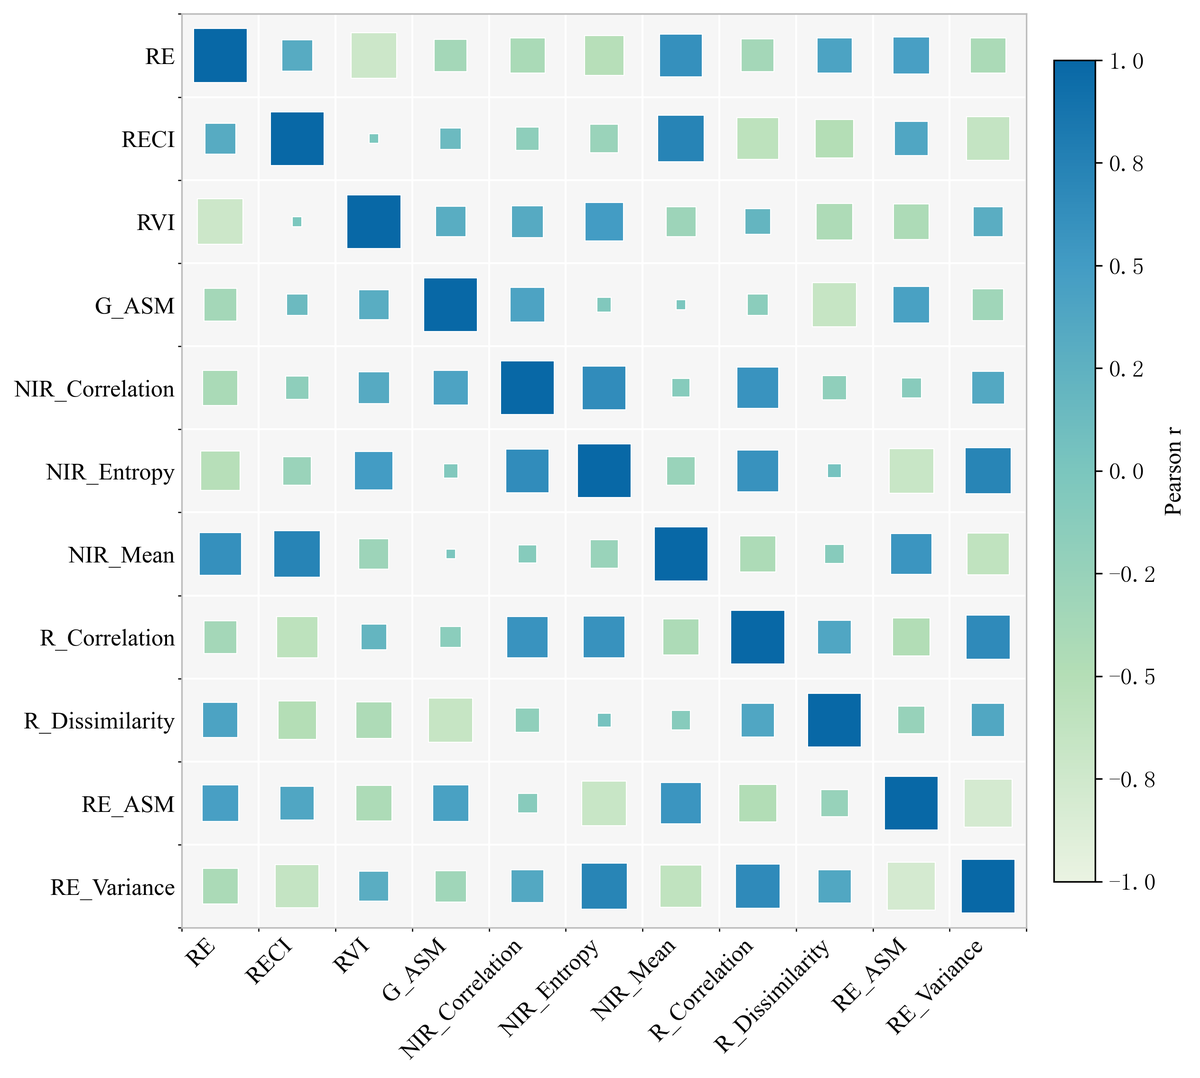
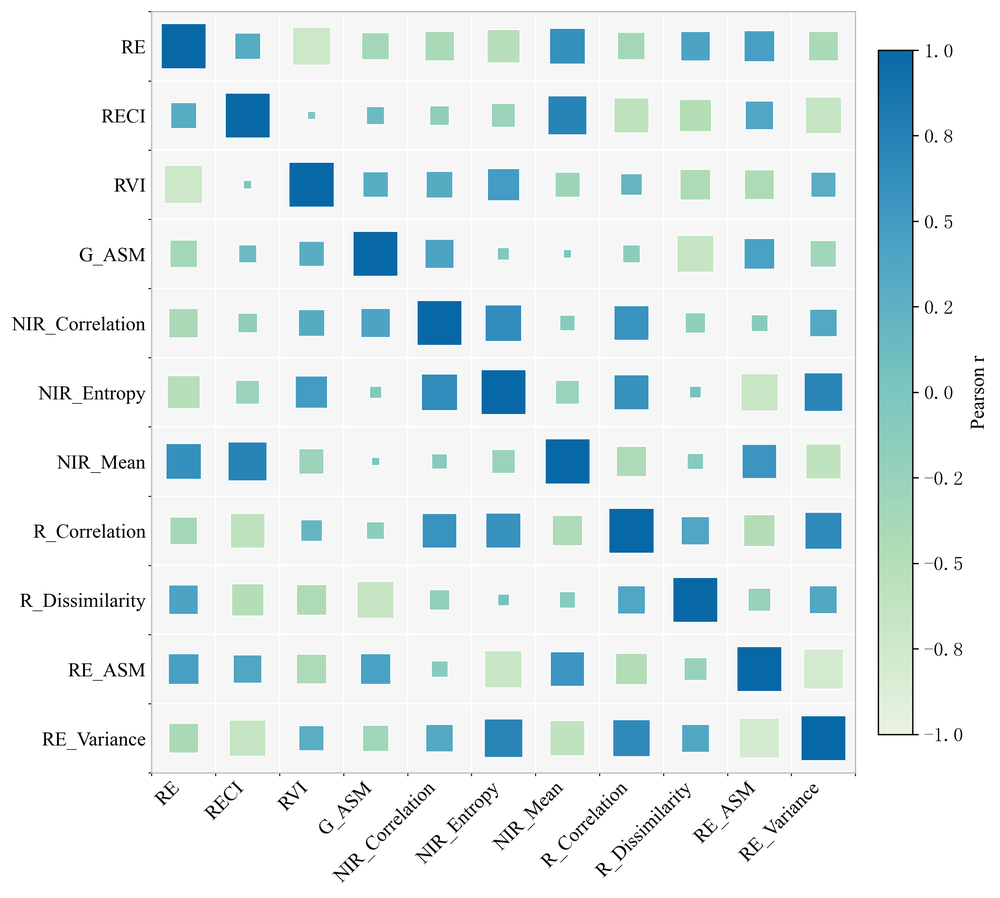
Improve README: badges, TOC, optimized preview images

diff --git a/README.md b/README.md
@@ -1,63 +1,101 @@
 <div align="center">
 
-# Correlation Plot
+<!-- PROJECT LOGO -->
+<br />
+<h1>Correlation Plot</h1>
 
-**Publication-quality correlation visualization for scientific research.**
+  <p align="center">
+    Publication-quality correlation visualization for scientific research
+    <br />
+    <a href="#demo">View Demo</a>
+    ·
+    <a href="#quick-start">Quick Start</a>
+    ·
+    <a href="#configuration">Configuration</a>
+  </p>
 
-One script → two figures → paper-ready.
-
+<!-- BADGES -->
+  <p align="center">
+    <img src="https://img.shields.io/badge/python-3.8+-blue?logo=python&logoColor=white" alt="Python 3.8+">
+    <img src="https://img.shields.io/badge/license-MIT-green" alt="License MIT">
+    <img src="https://img.shields.io/badge/dependencies-5-lightgrey" alt="Dependencies">
+  </p>
 </div>
+
+<!-- TABLE OF CONTENTS -->
+<details open>
+  <summary><b>Table of Contents</b></summary>
+  <ol>
+    <li><a href="#demo">Demo</a></li>
+    <li><a href="#quick-start">Quick Start</a></li>
+    <li><a href="#features">Features</a></li>
+    <li><a href="#project-structure">Project Structure</a></li>
+    <li><a href="#configuration">Configuration</a></li>
+    <li><a href="#dependencies">Dependencies</a></li>
+    <li><a href="#license">License</a></li>
+  </ol>
+</details>
 
 ---
 
 ## Demo
 
 <div align="center">
-  <img src="figures/correlation_bubble_plot_preview.png" width="48%" alt="Correlation bubble plot">
-  <img src="figures/pairwise_relationship_matrix_preview.png" width="48%" alt="Pairwise relationship matrix">
-</div>
+  <img src="figures/correlation_bubble_plot_preview.png" width="48%" alt="Correlation Bubble Plot">
+  &nbsp;
+  <img src="figures/pairwise_relationship_matrix_preview.png" width="48%" alt="Pairwise Relationship Matrix">
 
-**Left:** Correlation bubble plot — square size encodes |r|, color encodes sign and strength.
-**Right:** Pairwise relationship matrix — diagonals show histograms, lower triangle shows scatter + regression, upper triangle shows r with significance stars.
+  *Left: Correlation bubble plot — square size ∝ |r|, color encodes sign & strength. Right: Pairwise relationship matrix — histogram (diagonal), scatter + linear fit (lower), r-value + significance (upper).*
+</div>
 
 ---
 
 ## Quick Start
 
 ```bash
+# 1. Clone
 git clone https://github.com/tang200312/Correlation-Plot.git
 cd Correlation-Plot
+
+# 2. Install
 pip install -r requirements.txt
+
+# 3. Run
 python src/plot_correlation.py
 ```
 
-Output files appear in `figures/`:
-- `correlation_matrix.csv` — full correlation table
-- `correlation_bubble_plot.png` — bubble matrix (300 DPI)
-- `pairwise_relationship_matrix.png` — multi-panel matrix (300 DPI)
+Three files are written to `figures/`:
+
+| Output | Description |
+|---|---|
+| `correlation_matrix.csv` | Full pairwise correlation table |
+| `correlation_bubble_plot.png` | Bubble matrix (300 DPI) |
+| `pairwise_relationship_matrix.png` | Multi-panel matrix (300 DPI) |
+
+**To use your own data:** replace `data/example_data.csv` with any numeric CSV and rerun.
 
 ---
 
 ## Features
 
-- **Pearson correlation** with significance stars (\*\*\*p<0.001, \*\*p<0.01, \*p<0.05)
-- **Bubble plot** — color-mapped squares on a clean grid, ideal for presentations
-- **Pairwise matrix** — histograms (diagonal), scatter + linear fit (lower), r-values (upper)
-- **Times New Roman** typography — matches most journal requirements
-- **Customizable palette and DPI** — tweak constants at the top of the script
-- **Works with any numeric CSV** — just swap `data/example_data.csv`
+- **Bubble plot** — color-coded grid squares, size proportional to |r|, clean journal style
+- **Pairwise matrix** — everything in one figure: distribution, scatter, regression, r-values, significance
+- **Significance stars** — \*\*\*(p<0.001), \*\*(p<0.01), \*(p<0.05) as you'd expect in a paper
+- **Times New Roman** throughout — matches the typography most journals require
+- **Configurable** — swap method (Pearson/Spearman/Kendall), colors, DPI from constants at the top
+- **Data-agnostic** — feed it any numeric CSV, it auto-selects numeric columns only
 
 ---
 
 ## Project Structure
 
 ```
-Correlation-Plot/
+.
 ├── src/
 │   └── plot_correlation.py    # main script
 ├── data/
-│   └── example_data.csv       # sample 11-feature dataset
-├── figures/                   # output directory (auto-created)
+│   └── example_data.csv       # sample dataset (11 features, 200 samples)
+├── figures/                   # output (auto-created on first run)
 ├── requirements.txt
 ├── .gitignore
 └── README.md
@@ -67,31 +105,35 @@ Correlation-Plot/
 
 ## Configuration
 
-Edit the constants in `src/plot_correlation.py`:
+Open `src/plot_correlation.py` and tweak the constants near the top:
 
-| Variable | Default | Description |
+| Constant | Default | What it does |
 |---|---|---|
-| `CORR_METHOD` | `"pearson"` | Correlation method (`pearson`, `spearman`, `kendall`) |
-| `FIG_DPI` | `300` | Output resolution |
-| `PALETTE` | 5-color green-blue gradient | Bubble plot colormap |
-| `GREEN` | `#7aa06a` | Pairwise plot — positive correlation color |
-| `PINK` | `#d65a7f` | Pairwise plot — negative correlation color |
+| `CORR_METHOD` | `"pearson"` | Correlation method — also `"spearman"`, `"kendall"` |
+| `FIG_DPI` | `300` | Output resolution (300 = journal-ready) |
+| `PALETTE` | `["#eaf3e2", …, "#0868a6"]` | Colormap for the bubble plot |
+| `GREEN` | `"#7aa06a"` | Color for positive correlation / histograms |
+| `PINK` | `"#d65a7f"` | Color for negative correlation / scatter points |
 
 ---
 
-## Requirements
+## Dependencies
 
-- Python 3.8+
-- matplotlib, numpy, pandas, seaborn, scipy
-
-Or install directly:
+| Package | Tested |
+|---|---|
+| Python | ≥ 3.8 |
+| matplotlib | ≥ 3.5 |
+| numpy | ≥ 1.21 |
+| pandas | ≥ 1.3 |
+| scipy | ≥ 1.7 |
+| seaborn | ≥ 0.11 |
 
 ```bash
-pip install matplotlib numpy pandas seaborn scipy
+pip install -r requirements.txt
 ```
 
 ---
 
 ## License
 
-MIT — use freely in your research.
+Distributed under the MIT License. Use freely in your research or project.
